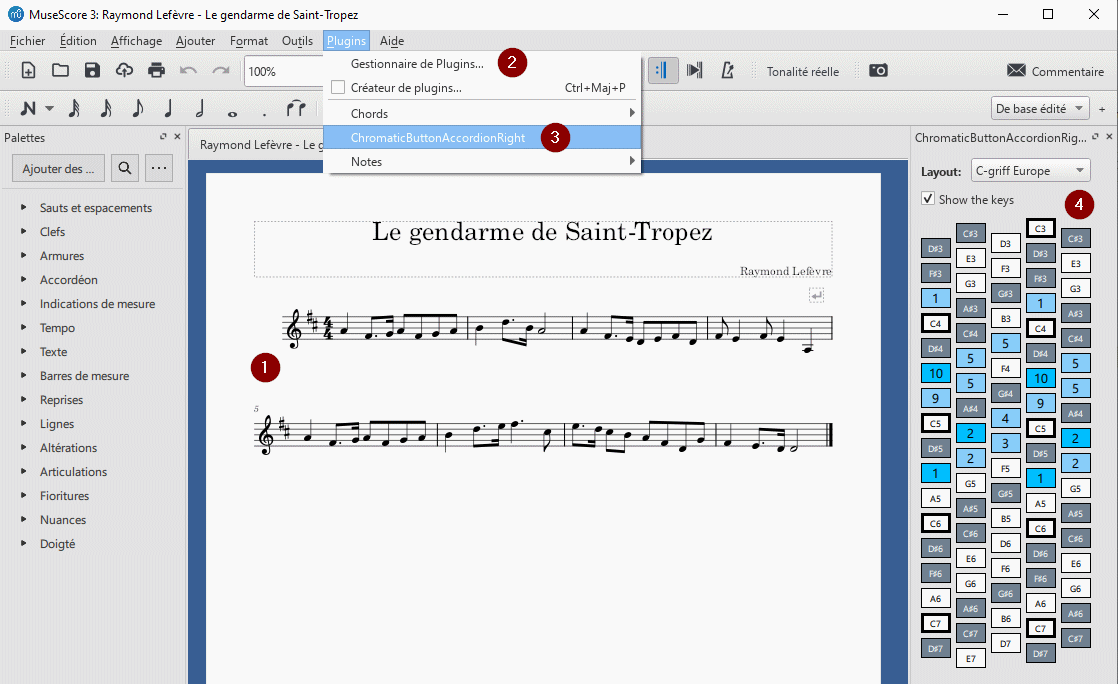
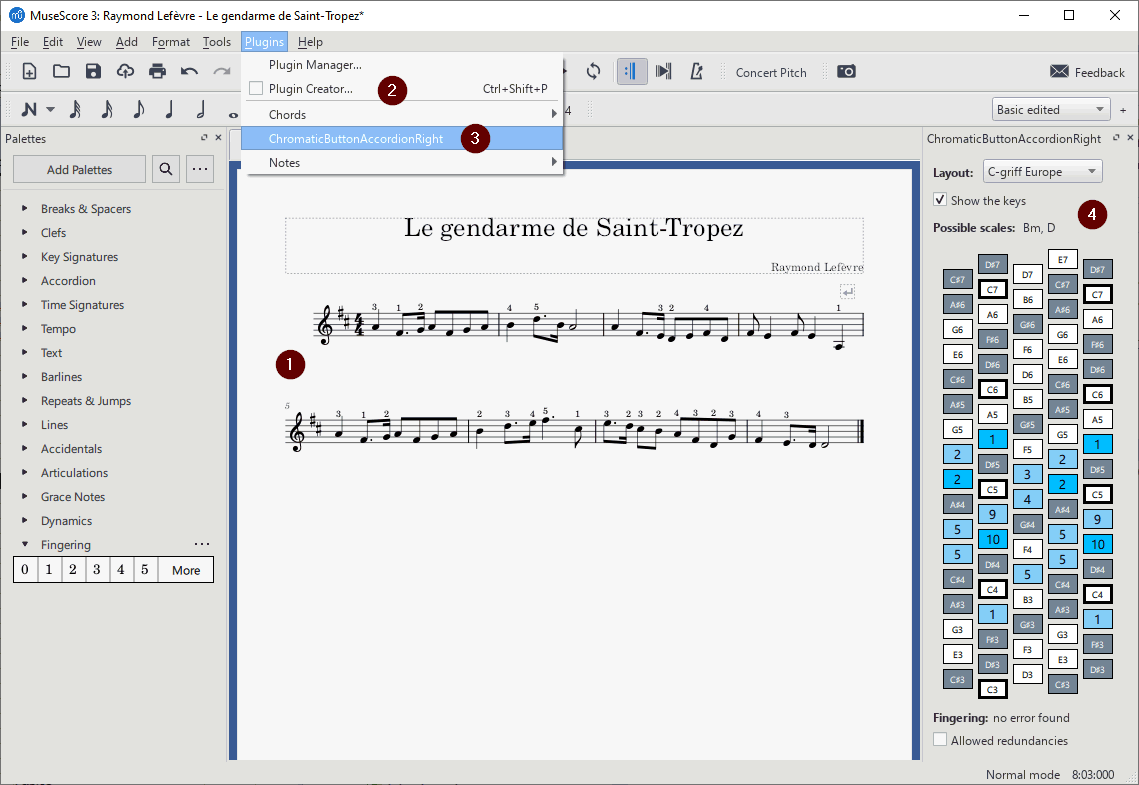
Fingering

Changed region(s): [[0.0, 0.0, 1.0, 1.0], [0.0, 0.9825, 0.0304, 1.0]]

diff --git a/ChromaticButtonAccordionRight.qml b/ChromaticButtonAccordionRight.qml
@@ -7,9 +7,10 @@
 // https://musescore.org/en/handbook/developers-handbook/plugins-3x
 // https://musescore.org/en/developers-handbook/references/musescore-internal-score-representation
 // https://musescore.github.io/MuseScore_PluginAPI_Docs/plugins/html/index.html
-// https://musescore.github.io/MuseScore_PluginAPI_Docs/plugins/html/class_ms_1_1_plugin_a_p_i_1_1_plugin_a_p_i.html
 // https://musescore.github.io/MuseScore_PluginAPI_Docs/plugins/html/annotated.html
 // https://musescore.github.io/MuseScore_PluginAPI_Docs/plugins/html/namespace_ms.html#a16b11be27a8e9362dd122c4d879e01ae
+// https://musescore.github.io/MuseScore_PluginAPI_Docs/plugins/html/class_ms_1_1_plugin_a_p_i_1_1_element.html
+// https://musescore.github.io/MuseScore_PluginAPI_Docs/plugins/html/class_ms_1_1_plugin_a_p_i_1_1_plugin_a_p_i.html
 // https://doc.qt.io/archives/qt-5.9/qmltypes.html
 // https://static.roland.com/assets/media/pdf/FR-1x_e02_W.pdf
 //=============================================================================
@@ -31,22 +32,24 @@ MuseScore {
     id: mainapp
     pluginType: "dock"
     dockArea: "right"
-    width: 200
-    height: 535
+    width: 260
+    height: 630
 
-    property var rotate: false
+    property var rotate: false                // Manual set only
     property var button_width: 30
     property var button_height: 20
     property var button_spacing: 5
     property var buttons: []
+
+    property var c_keys_txt: Array('C', 'C♯', 'D', 'D♯', 'E', 'F', 'F♯', 'G', 'G♯', 'A', 'A♯', 'B')
 
 
     //=============================================================================
     // User interface
 
     function getButtonPosition(x, y) {
-        return {x: (button_width + button_spacing) * x + (2 * button_spacing),
-                y: (button_height + button_spacing) * (y - 1) + (2 * button_spacing) * x + 90};
+        return {x: (button_width + button_spacing) * x + (2 * button_spacing) + 10,
+                y: (button_height + button_spacing) * (y - 1) + (2 * button_spacing) * x + 95};
     }
 
     onRun: {
@@ -77,6 +80,10 @@ MuseScore {
     //=============================================================================
     // Computation
 
+    function key2us(key) {
+        return c_keys_txt[key % 12] + (Math.floor(key / 12) - 1);
+    }
+
     function refreshAccordion(id) {
         var // Types of accordions
             accordion_c_europe  = Array(null, null, null, 48, 49, null, 49, 50, 51, 52, 51, 52, 53, 54, 55, 54, 55, 56, 57, 58, 57, 58, 59, 60, 61, 60, 61, 62, 63, 64, 63, 64, 65, 66, 67, 66, 67, 68, 69, 70, 69, 70, 71, 72, 73, 72, 73, 74, 75, 76, 75, 76, 77, 78, 79, 78, 79, 80, 81, 82, 81, 82, 83, 84, 85, 84, 85, 86, 87, 88, 87, 88, 89, 90, 91, 90, 91, 92, 93, 94, 93, 94, 95, 96, 97, 96, 97, 98, 99, null, 99, 100, null, null, null),
@@ -92,8 +99,7 @@ MuseScore {
             scales = Array(scale_major, scale_minor),
             scales_txt = Array('', 'm'),
             // Keys
-            keys_black = Array(false, true, false, true, false, false, true, false, true, false, true, false),
-            keys_txt = Array('C', 'C♯', 'D', 'D♯', 'E', 'F', 'F♯', 'G', 'G♯', 'A', 'A♯', 'B');
+            keys_black = Array(false, true, false, true, false, false, true, false, true, false, true, false);
 
         var e, i, x, y,
             but, key, black,
@@ -144,7 +150,7 @@ MuseScore {
                     } else {
                         but.color = (black ? 'white' : 'black');
                         but.parent.color = (black ? 'slategray' : 'white');
-                        but.text = (qShowNotes.checked ? keys_txt[key % 12] + (Math.floor(key / 12) - 1) : '');
+                        but.text = (qShowNotes.checked ? key2us(key) : '');
                         but.font.pointSize = 7;
                     }
                     but.parent.visible = true;
@@ -164,7 +170,7 @@ MuseScore {
                     sum_r = Array();
                 if ((sum > 0) && (sum >= sum_max)) {
                     sum_max = sum;
-                    sum_r.push(keys_txt[x] + scales_txt[y]);
+                    sum_r.push(c_keys_txt[x] + scales_txt[y]);
                 }
             }
         }
@@ -172,7 +178,87 @@ MuseScore {
             sum_r.push('-');
         else
             sum_r.sort();
-        qScaleLabel.text = 'Possible scale: ' + sum_r.join(', ');
+        qScaleLabel.text = sum_r.join(', ');
+
+        // Other determinations
+        refreshFingering();
+    }
+
+    function refreshFingering() {
+        var cursor, e, e2, i, n, f, p,
+            keys, fingers, errmsg,
+            hand;
+
+        // Map the keys and fingers
+        keys = Array();
+        fingers = Array();
+        errmsg = '';
+        if (curScore != null) {
+            cursor = curScore.newCursor();
+            cursor.staffIdx = 0;
+            cursor.voice = 0;
+            cursor.rewind(Cursor.SCORE_START);
+            while (cursor.segment) {
+                if (e = cursor.element) {
+                    if (e.type == Element.CHORD) {
+                        // Key
+                        if (e.notes.length != 1) {
+                            errmsg = 'chords are not supported';
+                            break;
+                        }
+                        e2 = e.notes[0];
+                        keys.push(e2.pitch);
+
+                        // Finger
+                        n = 0;
+                        for (i=0; i<e2.elements.length; i++) {
+                            if (e2.elements[i].type == Element.FINGERING) {
+                                f = parseInt(e2.elements[i].text.substring(0, 1));
+                                if (isNaN(f) || (f < 1) || (f > 5))
+                                    errmsg = 'wrong finger identifier';
+                                else
+                                    n++;
+                            }
+                        }
+                        if (n == 0)
+                            fingers.push(0);
+                        else if (n == 1)
+                            fingers.push(f);
+                        else
+                            errmsg = 'multiple fingering for a key';
+                    }
+                }
+                if (errmsg.length > 0)
+                    break;
+                cursor.next();
+            }
+        }
+
+        // Detect the inconsistencies
+        if ((errmsg.length == 0) && (keys.length > 0) && (keys.length == fingers.length)) {
+            hand = Array(-1, -1, -1, -1, -1, -1);
+            for (i=0; i<keys.length; i++) {
+                p = hand.indexOf(keys[i]);
+                if (fingers[i] != 0) {                                                  // With finger mark
+                    if (!qFingeringRedundantCheckbox.checked && (p != -1) && (p == fingers[i])) {
+                        errmsg = 'redundant finger for '+key2us(keys[i])+' (note #'+(i+1)+')';
+                        break;
+                    }
+                    hand.forEach(function(e) { return e == keys[i] ? -1 : e });         // Release key
+                    hand[fingers[i]] = keys[i];                                         // Press key
+                } else {                                                                // Without finger mark
+                    if (p == -1) {
+                        errmsg = 'missing finger for '+key2us(keys[i])+' (note #'+(i+1)+')';
+                        break;
+                    }
+                }
+            }
+        }
+
+        // Final analysis
+        if (errmsg == '')
+            errmsg = 'no error found';
+        qFingeringLabel.text = errmsg;
     }
 
 
@@ -189,13 +275,13 @@ MuseScore {
             text: "Layout:"
             font.bold: true
         }
-        
+
         ComboBox {
             id: qLayout
             x: 60
             y: 10
             width: 120
-            
+
             model: ListModel {
                 id: model
                 ListElement { text: "C-griff Europe" }
@@ -218,9 +304,36 @@ MuseScore {
         }
 
         Label {
-            id: qScaleLabel
             x: 10
             y: 70
+            text: "Possible scales:"
+            font.bold: true
+        }
+
+        Label {
+            id: qScaleLabel
+            x: 100
+            y: 70
+        }
+
+        Label {
+            x: 10
+            y: 560
+            text: "Fingering:"
+            font.bold: true
+        }
+
+        Label {
+            id: qFingeringLabel
+            x: 70
+            y: 560
+        }
+
+        CheckBox {
+            id: qFingeringRedundantCheckbox
+            x: 10
+            y: 580
+            text: "Allowed redundancies"
         }
 
         Timer {

diff --git a/README.md b/README.md
@@ -2,7 +2,7 @@
 
 *(Tested in MuseScore 3.6.2)*
 
-I am learning the chromatic button accordion. I use MuseScore a lot to prepare my music. I wanted an assistant to see at glance which buttons the right hand should press for a track.
+I am learning the chromatic button accordion and use MuseScore a lot to prepare my music. I needed an assistant to see at glance which buttons the right hand should press for a track, and to check the fingering in the annotations.
 
 For what it's worth, here is the plugin for doing that! Enjoy.
 
@@ -27,6 +27,7 @@ The accordion refreshes itself every 5 seconds.
 
 - Not tested under MuseScore 4
 - First track only
+- First voice only for the fingering
 - Selections are ignored
 - 8va/8vb are unsupported
 - Grace notes are unsupported
